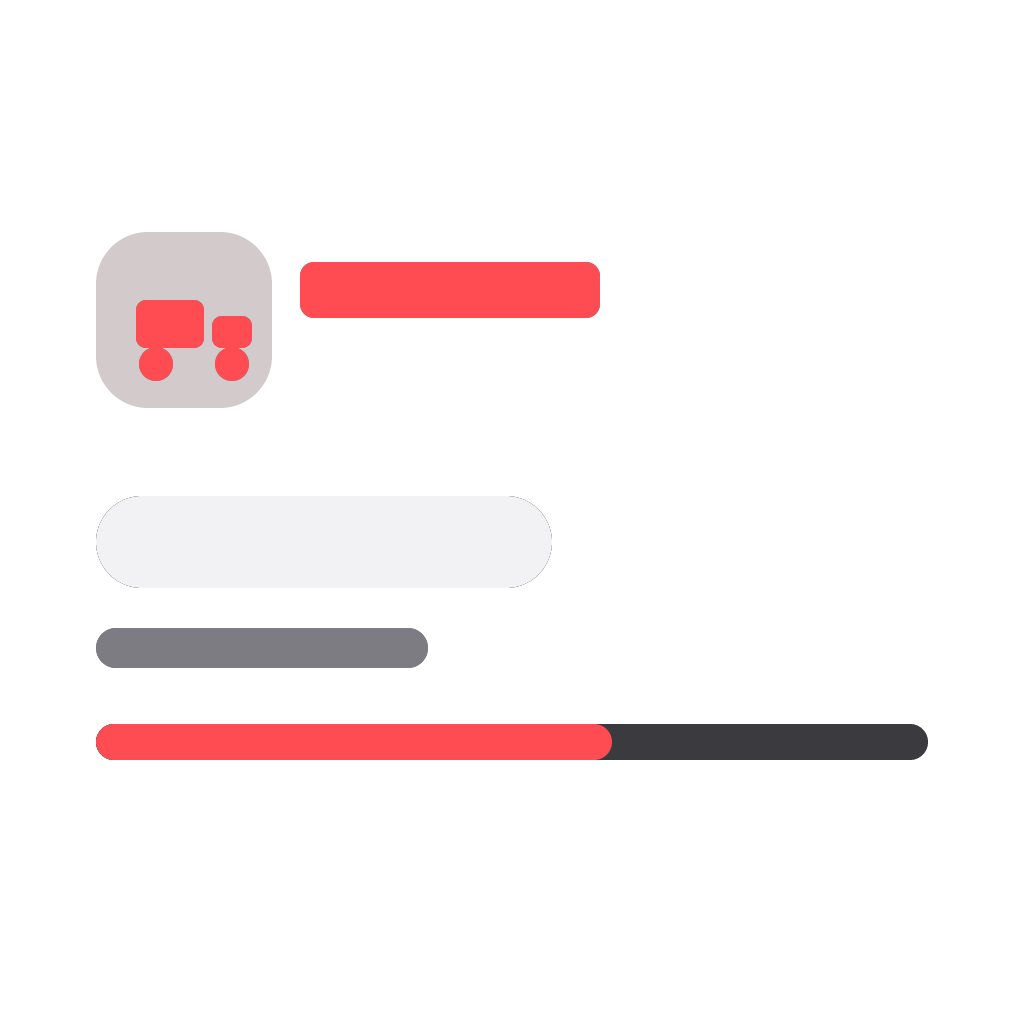
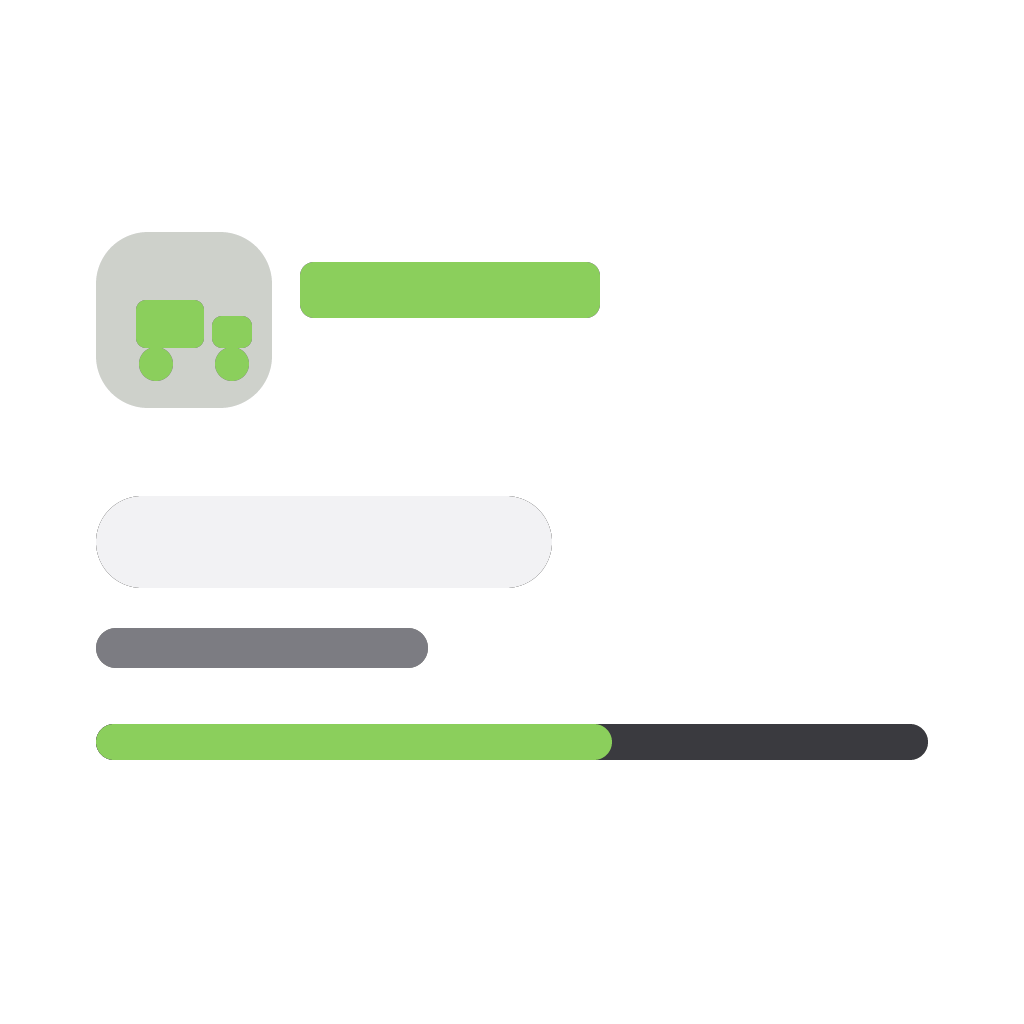
Show an order in hand in green, and say what each number is
A placed order showed its "Besteld" badge in Picnic's red, which reads as
something gone wrong. Red on this widget now means one thing, a cart that
still has to be ordered; an order in hand, placed or on its way, is the green
of Picnic's "Naar de winkel" button, and a delivered one keeps the darker
green of its "Family" badge.

"over 20 uur" did not say what was twenty hours away. Every number now has a
caption on a line of its own above it saying what it is: "Bezorging over" over
"20 uur", "Bestel vóór" over "13:00", "Bezorgd om" over "11:27". On a line of
its own, the caption no longer has to fit beside the number on a half width
tile, which is what had these words cut down to "over" and "vóór". The slot
under it reads as one phrase, "morgen 08:30–09:30".

The previews show the on its way state, so they are drawn in the green too.

Changed region(s): [[0.0938, 0.6875, 0.5938, 0.75], [0.2812, 0.25, 0.5938, 0.3125], [0.125, 0.2812, 0.25, 0.375]]

diff --git a/test/widget.test.js b/test/widget.test.js
@@ -16,7 +16,7 @@ const script = html.match(/<script type="text\/javascript">([\s\S]*?)<\/script>/
 // the English labels the app hands over, straight from the locale file
 const LABELS = JSON.parse(fs.readFileSync(path.join(__dirname, '..', 'locales', 'en.json'), 'utf8')).widget.delivery;
 
-const NODES = ['tile', 'badge', 'status', 'meta', 'headline', 'pre', 'value', 'unit', 'detail', 'when', 'what', 'track', 'fill', 'note'];
+const NODES = ['tile', 'badge', 'status', 'meta', 'caption', 'headline', 'value', 'unit', 'detail', 'when', 'what', 'track', 'fill', 'note'];
 
 function harness(settings) {
   const nodes = {};
@@ -60,7 +60,8 @@ function harness(settings) {
   return {
     nodes,
     adopt: context.adopt,
-    headline: () => [nodes.pre, nodes.value, nodes.unit].filter(node => !node.hidden && node.textContent).map(node => node.textContent).join(' '),
+    // the caption above the number reads as part of it: "Delivery in" "15 min"
+    headline: () => [nodes.caption, nodes.value, nodes.unit].filter(node => !node.hidden && node.textContent).map(node => node.textContent).join(' '),
     detail: () => [nodes.when.textContent, nodes.what.textContent].filter(Boolean).join(' · ')
   };
 }
@@ -125,11 +126,11 @@ test('an announced delivery counts the minutes down and fills the bar', () => {
 
   adopt(payload(Object.assign({ now: '2026-07-28T15:56:00.000+02:00' }, ANNOUNCED)));
 
-  assert.strictEqual(nodes.tile.dataset.tone, 'brand');
+  assert.strictEqual(nodes.tile.dataset.tone, 'calm');
   assert.strictEqual(nodes.badge.dataset.icon, 'truck');
   assert.strictEqual(nodes.status.textContent, 'On its way');
-  assert.strictEqual(headline(), 'in 15 min');
-  assert.strictEqual(detail(), 'today · 16:11–16:31');
+  assert.strictEqual(headline(), 'Delivery in 15 min');
+  assert.strictEqual(detail(), 'today 16:11–16:31');
   assert.strictEqual(nodes.track.hidden, false);
   assert.strictEqual(nodes.fill.style.width, '50%');
   assert.strictEqual(nodes.meta.textContent, '€52.50');
@@ -146,8 +147,9 @@ test('an order days out counts in days and shows no bar', () => {
   }));
 
   assert.strictEqual(nodes.status.textContent, 'Ordered');
+  assert.strictEqual(nodes.tile.dataset.tone, 'calm');
   assert.strictEqual(nodes.badge.dataset.icon, 'scheduled');
-  assert.strictEqual(headline(), 'in 2 days');
+  assert.strictEqual(headline(), 'Delivery in 2 days');
   assert.strictEqual(nodes.track.hidden, true);
 });
 
@@ -156,7 +158,7 @@ test('a single minute left is not pluralised', () => {
 
   adopt(payload(Object.assign({ now: '2026-07-28T16:10:30.000+02:00' }, ANNOUNCED)));
 
-  assert.strictEqual(headline(), 'in 1 min');
+  assert.strictEqual(headline(), 'Delivery in 1 min');
 });
 
 test('the window itself says the groceries are arriving', () => {
@@ -187,7 +189,7 @@ test('delivered groceries show the moment they arrived and what they cost', () =
 
   assert.strictEqual(nodes.status.textContent, 'Delivered');
   assert.strictEqual(nodes.tile.dataset.tone, 'good');
-  assert.strictEqual(headline(), 'at 16:18');
+  assert.strictEqual(headline(), 'Delivered at 16:18');
   assert.strictEqual(detail(), 'today');
   assert.strictEqual(nodes.meta.textContent, '€52.50');
   assert.strictEqual(nodes.note.hidden, true);
@@ -266,7 +268,7 @@ test('amounts can be turned off', () => {
   // and a cart with a slot keeps its deadline, just not the amount under it
   const deadline = harness({ show_price: false });
   deadline.adopt(payload({ orderStatus: '', cart: cart(), now: '2026-07-28T10:00:00.000+02:00' }));
-  assert.strictEqual(deadline.headline(), 'before 23:00 Fri 19 Sep');
+  assert.strictEqual(deadline.headline(), 'Order before 23:00 Fri 19 Sep');
   assert.strictEqual(deadline.detail(), 'Sat 20 Sep 18:15–19:15');
 });
 
@@ -279,7 +281,7 @@ test('a clock that runs ahead of Homey does not count down to the wrong minute',
   try {
     adopt(payload(Object.assign({ now: '2026-07-28T15:56:00.000+02:00' }, ANNOUNCED)));
 
-    assert.strictEqual(headline(), 'in 15 min');
+    assert.strictEqual(headline(), 'Delivery in 15 min');
   } finally {
     Date.now = realNow;
   }
@@ -344,7 +346,7 @@ test('a cart while an order is open is what still has to go onto that order', ()
   }));
 
   // the delivery is still the headline, the things not on it yet the note
-  assert.strictEqual(headline(), 'in 21 hours');
+  assert.strictEqual(headline(), 'Delivery in 21 hours');
   assert.strictEqual(nodes.note.textContent, '€12.40 still to add, until today 23:00');
   assert.strictEqual(nodes.note.dataset.tone, 'warn');
 });
@@ -372,7 +374,7 @@ test('a cart with a slot picked is not an order yet, and says until when it can 
   assert.strictEqual(nodes.status.textContent, 'Not ordered yet');
   assert.strictEqual(nodes.tile.dataset.tone, 'brand');
   assert.strictEqual(nodes.badge.dataset.icon, 'basket');
-  assert.strictEqual(headline(), 'before 23:00 Fri 19 Sep');
+  assert.strictEqual(headline(), 'Order before 23:00 Fri 19 Sep');
   assert.strictEqual(detail(), '€22.03 · Sat 20 Sep 18:15–19:15');
   assert.strictEqual(nodes.meta.textContent, '9 products');
   assert.strictEqual(nodes.note.hidden, true);
@@ -385,7 +387,7 @@ test('a deadline today goes without its day', () => {
     cart: { totalPrice: 32.86, productCount: 18, minimumShort: 12.14, slotChosen: true, slotClosed: false, slot: { day: 'tomorrow', window: '08:30–09:30', cutOffAt: '2026-07-29T13:00:00.000+02:00', cutOffTime: '13:00', cutOffDay: 'today' } }
   }));
 
-  assert.strictEqual(headline(), 'before 13:00');
+  assert.strictEqual(headline(), 'Order before 13:00');
 });
 
 test('the order deadline and the missing amount are both said', () => {
@@ -393,7 +395,7 @@ test('the order deadline and the missing amount are both said', () => {
 
   adopt(payload({ orderStatus: '', cart: cart({ totalPrice: 32.86, productCount: 18, minimumOrderValue: 45 }), now: '2026-07-28T10:00:00.000+02:00' }));
 
-  assert.strictEqual(headline(), 'before 23:00 Fri 19 Sep');
+  assert.strictEqual(headline(), 'Order before 23:00 Fri 19 Sep');
   assert.strictEqual(nodes.note.textContent, '€12.14 short of the minimum');
   assert.strictEqual(nodes.note.dataset.tone, 'warn');
 });
@@ -403,7 +405,7 @@ test('the last hour to order a picked slot is counted down, in the colour to hur
 
   adopt(payload({ orderStatus: '', cart: cart(), now: '2026-07-29T22:20:00.000+02:00' }));
 
-  assert.strictEqual(headline(), 'in 40 min');
+  assert.strictEqual(headline(), 'Order within 40 min');
   assert.strictEqual(nodes.tile.dataset.tone, 'warn');
 });
 
@@ -444,7 +446,7 @@ test('a cart that can no longer be added to an order is not held over the reader
 
   adopt(payload(Object.assign({ cutOffAt: '2026-07-27T23:00:00.000+02:00', cart: cart(), now: '2026-07-28T15:56:00.000+02:00' }, ANNOUNCED)));
 
-  assert.strictEqual(headline(), 'in 15 min');
+  assert.strictEqual(headline(), 'Delivery in 15 min');
   assert.strictEqual(nodes.note.hidden, true);
 });
 
@@ -497,7 +499,30 @@ test('a placed order with twenty minutes left to add to says so, whatever the de
   }));
 
   assert.strictEqual(nodes.status.textContent, 'Ordered');
-  assert.strictEqual(headline(), 'in 20 hours');
+  assert.strictEqual(headline(), 'Delivery in 20 hours');
   assert.strictEqual(nodes.note.textContent, '20 min left to add');
   assert.strictEqual(nodes.note.dataset.tone, 'warn');
+});
+
+test('an order in hand is shown in a calm colour, the cart that still has to be ordered in red', () => {
+  const ordered = harness();
+  ordered.adopt(payload({ orderStatus: 'groceries_ordered', etaStart: '2026-09-19T08:30:00.000+02:00', etaEnd: '2026-09-19T09:30:00.000+02:00', now: '2026-09-18T12:40:00.000+02:00' }));
+
+  const cartOnly = harness();
+  cartOnly.adopt(payload({ orderStatus: '', cart: cart(), now: '2026-07-28T10:00:00.000+02:00' }));
+
+  assert.strictEqual(ordered.nodes.tile.dataset.tone, 'calm');
+  assert.strictEqual(cartOnly.nodes.tile.dataset.tone, 'brand');
+});
+
+test('the caption says what the number is, and a sentence goes without one', () => {
+  const { nodes, adopt } = harness();
+
+  adopt(payload(Object.assign({ now: '2026-07-28T15:56:00.000+02:00' }, ANNOUNCED)));
+  assert.strictEqual(nodes.caption.textContent, 'Delivery in');
+  assert.strictEqual(nodes.caption.hidden, false);
+
+  adopt(payload(Object.assign({ now: '2026-07-28T16:16:00.000+02:00' }, ANNOUNCED)));
+  assert.strictEqual(nodes.caption.hidden, true);
+  assert.strictEqual(nodes.value.textContent, 'Any minute now');
 });

diff --git a/widgets/delivery/public/index.html b/widgets/delivery/public/index.html
@@ -29,8 +29,9 @@
       flex-direction: column;
       font-variant-numeric: tabular-nums;
 
-      /* Picnic's own badge colours: its red, the green of its "Family" badge
-         and the yellow of its "Actie" one. Each comes as the fill of a badge,
+      /* Picnic's own badge colours: its red, the green of its "Family" badge,
+         the lighter green of its "Naar de winkel" button for an order that is
+         in hand, and the yellow of its "Actie" one. Each comes as the fill of a badge,
          the text on that fill, and an ink for text and icons on the widget
          itself, where the fill would not always be readable. */
       --brand: #e40613;
@@ -39,6 +40,9 @@
       --good: #295813;
       --good-on: #ffffff;
       --good-ink: #295813;
+      --calm: #4b7f24;
+      --calm-on: #ffffff;
+      --calm-ink: #4b7f24;
       --warn: #f6d94a;
       --warn-on: #1b1b1d;
       --warn-ink: #8a6a00;
@@ -54,12 +58,14 @@
     .homey-dark-mode .tile {
       --brand-ink: #ff4b52;
       --good-ink: #7cc45a;
+      --calm-ink: #8bcf5c;
       --warn-ink: #f6d94a;
     }
 
     .tile[data-tone="brand"] { --tone: var(--brand); --tone-on: var(--brand-on); --tone-ink: var(--brand-ink); }
     .tile[data-tone="warn"] { --tone: var(--warn); --tone-on: var(--warn-on); --tone-ink: var(--warn-ink); }
     .tile[data-tone="good"] { --tone: var(--good); --tone-on: var(--good-on); --tone-ink: var(--good-ink); }
+    .tile[data-tone="calm"] { --tone: var(--calm); --tone-on: var(--calm-on); --tone-ink: var(--calm-ink); }
 
     .head {
       display: flex;
@@ -155,12 +161,23 @@
       text-overflow: ellipsis;
     }
 
-    .pre,
     .unit {
       flex: none;
       font-size: var(--homey-font-size-default, 17px);
       font-weight: var(--homey-font-weight-medium, 500);
       color: var(--muted);
+    }
+
+    /* what the number under it is, on a line of its own so the words never
+       have to fit beside the number on a narrow tile */
+    .caption {
+      font-size: var(--homey-font-size-small, 14px);
+      line-height: 18px;
+      font-weight: var(--homey-font-weight-medium, 500);
+      color: var(--muted);
+      white-space: nowrap;
+      overflow: hidden;
+      text-overflow: ellipsis;
     }
 
     /* a sentence is read rather than glanced at, and may take two lines */
@@ -271,6 +288,11 @@
         content: none;
       }
 
+      /* the second part is the lesser one, and keeps to a line */
+      .detail .what {
+        -webkit-line-clamp: 1;
+      }
+
       .note {
         white-space: normal;
         display: -webkit-box;
@@ -301,7 +323,8 @@
     </div>
 
     <div class="body">
-      <div class="headline" id="headline" aria-live="polite"><span class="pre" id="pre"></span><span class="value" id="value"></span><span class="unit" id="unit"></span></div>
+      <div class="caption" id="caption" hidden></div>
+      <div class="headline" id="headline" aria-live="polite"><span class="value" id="value"></span><span class="unit" id="unit"></span></div>
       <div class="detail" id="detail"><span class="when" id="when"></span><span class="what" id="what"></span></div>
 
       <div class="track" id="track" hidden>
@@ -330,9 +353,11 @@
     // What each state looks like: its colour, its icon and what it is called
     // at the top. The words themselves come from the app.
     var STATES = {
-      'ordered': { tone: 'brand', icon: 'scheduled', status: 'ordered' },
-      'announced': { tone: 'brand', icon: 'truck', status: 'announced' },
-      'arriving': { tone: 'brand', icon: 'truck', status: 'arriving' },
+      // an order in hand is good news rather than something to act on, so it
+      // is green; red is kept for the cart that still has to be ordered
+      'ordered': { tone: 'calm', icon: 'scheduled', status: 'ordered' },
+      'announced': { tone: 'calm', icon: 'truck', status: 'announced' },
+      'arriving': { tone: 'calm', icon: 'truck', status: 'arriving' },
       'overdue': { tone: 'warn', icon: 'clock', status: 'overdue' },
       'delivered': { tone: 'good', icon: 'check', status: 'delivered' },
       'cart': { tone: 'brand', icon: 'basket', status: 'cart' },
@@ -460,7 +485,7 @@
       var amount = minutes < 60 ? minutes : (hours < 24 ? hours : days);
       var unit = minutes < 60 ? 'minute' : (hours < 24 ? 'hour' : 'day');
 
-      return { pre: label('in'), value: String(amount), unit: label(amount == 1 ? unit : unit + 's'), kind: 'countdown' };
+      return { caption: label('delivery-in'), value: String(amount), unit: label(amount == 1 ? unit : unit + 's'), kind: 'countdown' };
     }
 
     // A deadline: named while it is hours away, counted down and called out
@@ -511,7 +536,8 @@
         status: look.status ? label(look.status) : '',
         meta: '',
         kind: 'message',
-        pre: '',
+        // what the number is, above it
+        caption: '',
         headline: '',
         unit: '',
         // the detail line: when, and what about it
@@ -528,14 +554,13 @@
           if (data['countdownTo']) {
             var left = remaining(data['countdownTo']);
             shown.kind = left.kind;
-            shown.pre = left.pre || '';
+            shown.caption = left.caption || '';
             shown.headline = left.value;
             shown.unit = left.unit || '';
           } else {
             shown.headline = label('ordered');
           }
-          shown.when = data['day'];
-          shown.what = data['window'];
+          shown.when = [data['day'], data['window']].filter(Boolean).join(' ');
           shown.progress = data['progress'];
           shown.note = orderNote(data);
           break;
@@ -544,8 +569,7 @@
         case 'overdue':
           shown.meta = price;
           shown.headline = label('now');
-          shown.when = data['day'];
-          shown.what = data['window'];
+          shown.when = [data['day'], data['window']].filter(Boolean).join(' ');
           shown.progress = data['progress'];
           break;
 
@@ -553,7 +577,7 @@
           var deposit = data['deposit'];
           shown.meta = price;
           shown.kind = 'countdown';
-          shown.pre = label('at');
+          shown.caption = label('delivered-at');
           shown.headline = data['deliveredTime'];
           shown.when = data['day'];
           shown.what = containers(deposit);
@@ -580,11 +604,11 @@
 
             if (minutes !== null && minutes <= URGENT_MINUTES) {
               shown.tone = 'warn';
-              shown.pre = label('order-within');
+              shown.caption = label('order-within');
               shown.headline = String(minutes);
               shown.unit = label(minutes == 1 ? 'minute' : 'minutes');
             } else {
-              shown.pre = label('order-before');
+              shown.caption = label('order-before');
               shown.headline = slot['cutOffTime'];
               // today goes without saying; any other day does not
               shown.unit = slot['cutOffDay'] && slot['cutOffDay'] != label('today') ? slot['cutOffDay'] : '';
@@ -633,8 +657,8 @@
       element('status').textContent = shown.status;
       element('meta').textContent = shown.meta;
 
-      element('pre').textContent = shown.pre;
-      element('pre').hidden = shown.pre == '';
+      element('caption').textContent = shown.caption;
+      element('caption').hidden = shown.caption == '';
       element('value').textContent = shown.headline;
       element('unit').textContent = shown.unit;
       element('unit').hidden = shown.unit == '';

diff --git a/app.js b/app.js
@@ -576,7 +576,7 @@ class Picnic extends Homey.App {
 
 		["signed-out", "signed-out-detail", "stale", "stale-since", "empty", "empty-cart",
 			"ordered", "announced", "arriving", "overdue", "delivered", "delivered-at",
-			"now", "in", "at", "today", "day", "days", "hour", "hours", "minute", "minutes",
+			"now", "delivery-in", "delivered-at", "today", "day", "days", "hour", "hours", "minute", "minutes",
 			"cart", "item", "items", "minimum", "no-slot", "slot-closed", "order-before", "order-within",
 			"cut-off-at", "cut-off-in", "to-order-at", "to-order-in",
 			"deposit-returned", "deposit-pending"].forEach(key => {

diff --git a/CHANGELOG.md b/CHANGELOG.md
@@ -23,7 +23,8 @@ each release is what Homey shows in the app store, and lives in `.homeychangelog
 - A delivery drops off the widget four hours after it arrived, rather than six, and what it shows in the meantime is the moment Picnic says it arrived rather than the moment the app noticed
 - A delivered order shows what came back in deposit once Picnic has counted it, and what went back: "6× Flessen, 1× Kratten"
 - With nothing ordered, the widget says the cart is not ordered yet, and which delivery moment it is set to, or that none has been picked, which is worth knowing because an unpicked moment is not held for you. With one picked, the deadline to order by is the headline — "vóór 13:00", and "nog 25 min" over the last hour — with the amount and the slot under it and how much is missing to the slot's minimum below. A slot whose deadline passed is said to be too late rather than unpicked
-- The widget takes after Picnic's own app: its van and basket icons, and each state as a badge in Picnic's red, the green of its "Family" badge or the yellow of its "Actie" one
+- The widget takes after Picnic's own app: its van and basket icons, and each state as a badge in Picnic's colours. An order in hand is green, the green of its "Naar de winkel" button; a delivered one the darker green of its "Family" badge; a cart that still has to be ordered its red; something late the yellow of its "Actie" badge
+- Every number on the widget has a caption above it saying what it is: "Bezorging over" over "20 uur", "Bestel vóór" over "13:00", "Bezorgd om" over "11:27"
 - Amounts are written the way the language Homey is set to writes them, rather than the way the tablet showing the dashboard happens to be set up
 - The widget never passes off what the app was last told as what is going on. When Picnic has not answered a poll in over a day it says there is no recent word from Picnic and when it last heard, instead of retelling an order from months ago as a delivery that is running late. An order the app only sees gone long after its window is not shown as just delivered either
 - Picnic refusing to hand out an order until a 2FA code is verified (HTTP 403, `TWO_FACTOR_AUTHENTICATION_REQUIRED`) is now recognised as a sign-in being needed. The app used to log it as a failed poll every hour and carry on with what it knew from before, and the settings page called the login "NOT OK". Now Homey notifies you, the settings page asks for a sign-in and the widget says so
